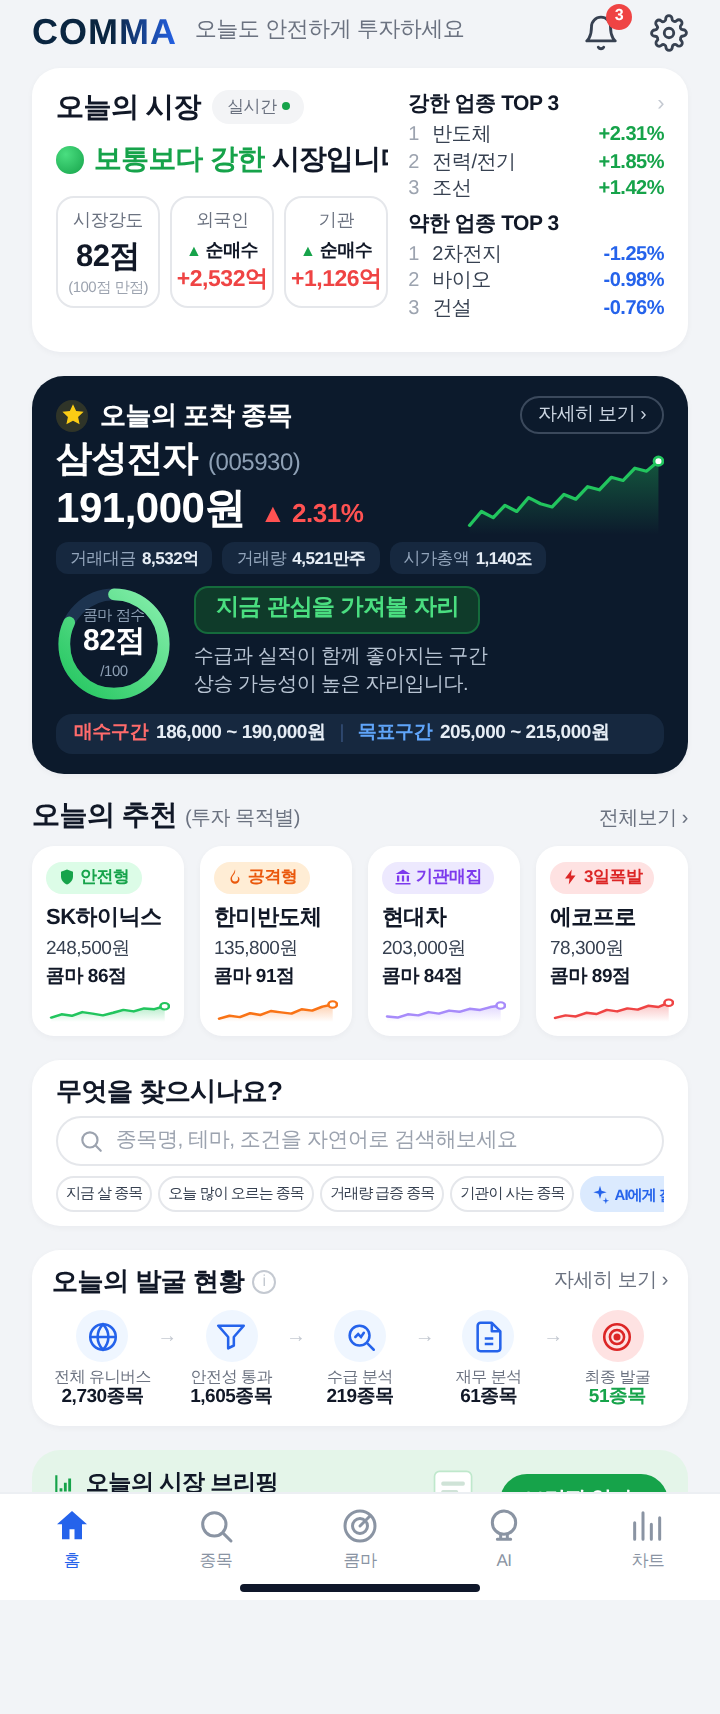
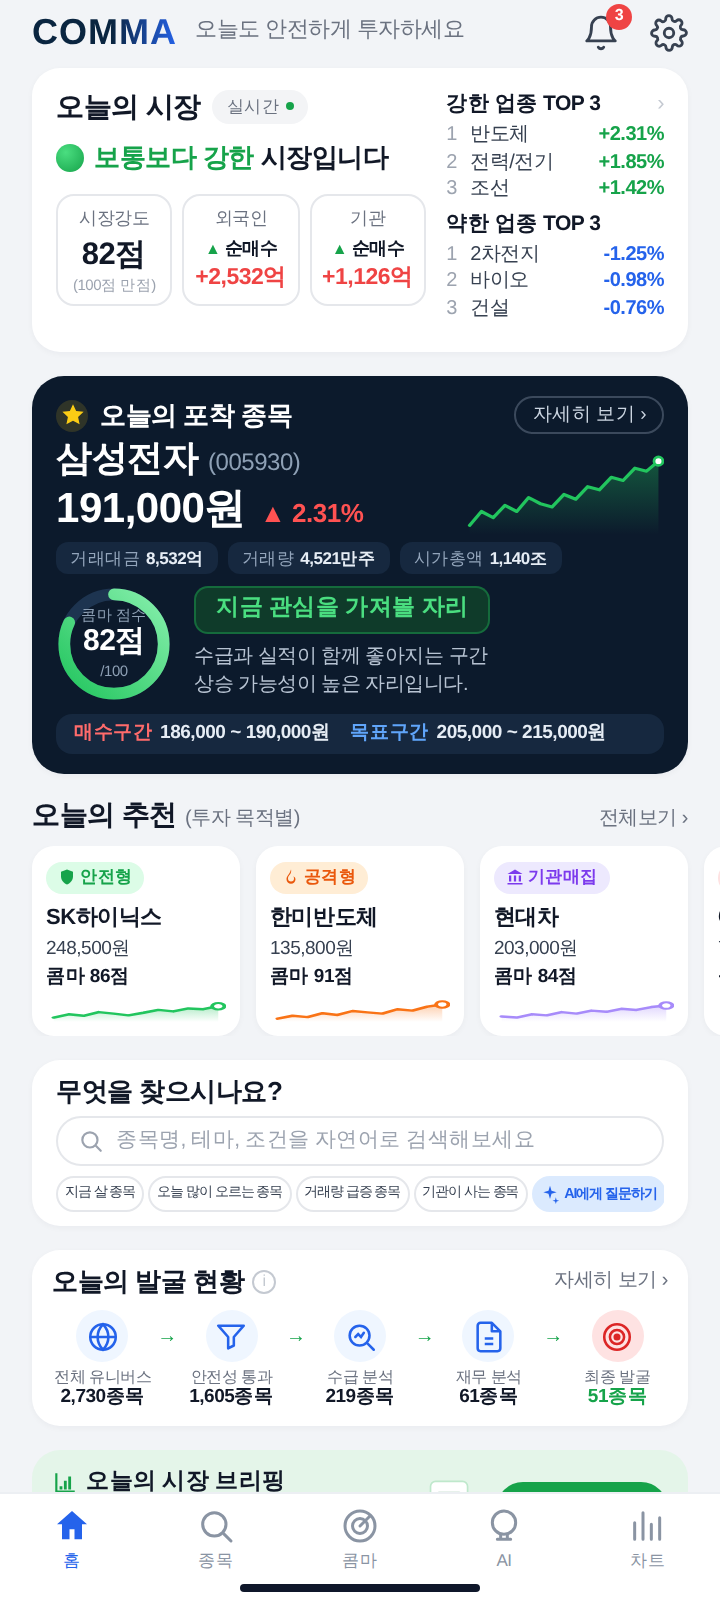
모바일 메인 화면 기준 이미지 정합 보강: 콤마형 포함 추천 5개, 초록 화살표, 소형 화면 보호
- 오늘의 추천을 5개 유형(안전형/공격형/기관매집/3일폭발 + 콤마형)으로 확장.
  기준 이미지대로 4개가 보이고 5번째 콤마형은 가로 스크롤로 이어짐.
- 콤마형 배지/차트는 기존 PC GUI와 동일한 COMMA 블루(#3182f6) 사용.
- 발굴 현황 단계 화살표를 명세대로 초록색으로 변경.
- '보통보다 강한 시장입니다' / 'AI에게 질문하기' 칩 잘림 수정.
- 360px 이하 소형 화면: 글자 삭제 없이 줄바꿈으로 대응(시장 상태, 매수/목표구간,
  브리핑 문구, 발굴 단계명), 추천 카드 3개/화면 스크롤.
- 320/360/375/390/414/430/480/768px 전 해상도에서 가로 overflow 없음 검증,
  스크린샷(360/390/414) 갱신.

Claude-Session: https://claude.ai/code/session_01STQdtvUvdCaqbkMQbvxGR4

Changed region(s): [[0.0306, 0.0, 0.9778, 1.0], [0.825, 0.0, 0.9472, 0.0312], [0.8861, 0.625, 0.9167, 0.6562]]

diff --git a/mobile/index.html b/mobile/index.html
@@ -72,7 +72,8 @@
 
   /* ---------- 1. 오늘의 시장 ---------- */
   .market-card { display: flex; gap: 10px; padding: 11px 12px; }
-  .market-left { flex: 1.3; min-width: 0; overflow: hidden; }
+  /* 기준 이미지 좌우 비율: 좌측(상태+지표) 약 63%, 우측(업종) 약 37% */
+  .market-left { flex: 1.7; min-width: 0; overflow: hidden; }
   .market-title-row { display: flex; align-items: center; gap: 6px; }
   .market-title { font-size: 14px; font-weight: 700; white-space: nowrap; }
   .live-pill {
@@ -164,8 +165,9 @@
   .zone-bar {
     display: flex; align-items: center; margin-top: 6px;
     background: #16283f; border-radius: 8px; padding: 4px 9px;
-    font-size: 9.5px; line-height: 1.25; white-space: nowrap;
+    font-size: 9.5px; line-height: 1.25;
   }
+  .zone-pair { display: inline-flex; align-items: baseline; white-space: nowrap; }
   .zone-label-buy { color: #ff6b6b; font-weight: 700; margin-right: 4px; }
   .zone-label-target { color: #60a5fa; font-weight: 700; margin-right: 4px; }
   .zone-value { color: #e6edf5; font-weight: 600; }
@@ -182,9 +184,15 @@
   .rec-row {
     display: flex; gap: 8px;
     padding: 0 var(--side-margin); margin-bottom: var(--card-gap);
+    /* 추천은 5개 유형(콤마형 포함) — 기준 이미지처럼 4개가 화면에 보이고
+       5번째 카드는 가로 스크롤로 이어진다. */
+    overflow-x: auto; scrollbar-width: none;
   }
+  .rec-row::-webkit-scrollbar { display: none; }
   .rec-card {
-    flex: 1; min-width: 0; background: #fff; border-radius: 11px;
+    /* 한 화면에 정확히 4개 (기준 이미지와 동일한 카드 폭 비율) */
+    flex: 0 0 calc((100% - 24px) / 4); min-width: 0;
+    background: #fff; border-radius: 11px;
     padding: 6px 7px 5px; box-shadow: 0 1px 3px rgba(15,23,42,0.04);
   }
   .rec-badge {
@@ -192,6 +200,7 @@
     font-size: 8.5px; font-weight: 700; border-radius: 999px; padding: 2.5px 6px;
     white-space: nowrap;
   }
+  .rec-badge.comma { background: #e8f0fe; color: #3182f6; }
   .rec-badge.safe { background: #dcfce7; color: #16a34a; }
   .rec-badge.aggressive { background: #ffedd5; color: #ea580c; }
   .rec-badge.inst { background: #ede9fe; color: #7c3aed; }
@@ -211,13 +220,13 @@
   }
   .search-input span { font-size: 10.5px; color: var(--text-light-gray); white-space: nowrap; }
   .search-chips {
-    display: flex; gap: 3px; margin-top: 5px; justify-content: space-between;
+    display: flex; gap: 2px; margin-top: 5px; justify-content: space-between;
     overflow-x: auto; scrollbar-width: none;
   }
   .search-chips::-webkit-scrollbar { display: none; }
   .s-chip {
-    flex: 0 0 auto; font-size: 7.5px; letter-spacing: -0.5px; color: #374151;
-    border: 1px solid var(--border); border-radius: 999px; padding: 3px 4px;
+    flex: 0 0 auto; font-size: 7.2px; letter-spacing: -0.55px; color: #374151;
+    border: 1px solid var(--border); border-radius: 999px; padding: 3px 3.5px;
     background: #fff; white-space: nowrap; line-height: 1.2;
   }
   .s-chip.ai {
@@ -245,7 +254,7 @@
   .step-label { font-size: 8px; line-height: 1.15; color: var(--text-gray); margin-top: 3px; white-space: nowrap; }
   .step-count { font-size: 9.5px; line-height: 1.15; font-weight: 800; margin-top: 1px; white-space: nowrap; }
   .step.final .step-count { color: var(--green); }
-  .step-arrow { color: #c4c9d1; font-size: 10px; padding-top: 8px; flex: none; }
+  .step-arrow { color: var(--green); font-size: 10px; padding-top: 8px; flex: none; }
 
   /* ---------- 6. 오늘의 시장 브리핑 ---------- */
   .briefing-card {
@@ -284,6 +293,18 @@
   .home-indicator {
     width: 120px; height: 4.5px; border-radius: 3px; background: #0f172a;
     margin: 6px auto 0;
+  }
+
+  /* ---------- 소형 기기 보호 (max-width 360px) ----------
+     글자를 삭제하지 않고 줄바꿈/스크롤로 대응한다. 기준 390px 화면에는 영향 없음.
+     주의: 기본 규칙을 덮어써야 하므로 반드시 스타일시트 마지막에 위치한다. */
+  @media (max-width: 360px) {
+    .market-status { white-space: normal; word-break: keep-all; }
+    .rec-card { flex-basis: calc((100% - 16px) / 3); }
+    .zone-bar { flex-wrap: wrap; row-gap: 2px; column-gap: 10px; }
+    .zone-sep { display: none; }
+    .briefing-msg { white-space: normal; overflow: visible; text-overflow: clip; }
+    .step-label { white-space: normal; word-break: keep-all; }
   }
 </style>
 </head>

diff --git a/mobile/render.js b/mobile/render.js
@@ -38,6 +38,7 @@
     bell: `<svg viewBox="0 0 24 24" fill="none" stroke="#374151" stroke-width="1.8" stroke-linecap="round" stroke-linejoin="round"><path d="M18 8a6 6 0 0 0-12 0c0 7-3 9-3 9h18s-3-2-3-9"/><path d="M13.7 21a2 2 0 0 1-3.4 0"/></svg>`,
     gear: `<svg viewBox="0 0 24 24" fill="none" stroke="#374151" stroke-width="1.8" stroke-linecap="round" stroke-linejoin="round"><circle cx="12" cy="12" r="3"/><path d="M19.4 15a1.65 1.65 0 0 0 .33 1.82l.06.06a2 2 0 1 1-2.83 2.83l-.06-.06a1.65 1.65 0 0 0-1.82-.33 1.65 1.65 0 0 0-1 1.51V21a2 2 0 1 1-4 0v-.09a1.65 1.65 0 0 0-1-1.51 1.65 1.65 0 0 0-1.82.33l-.06.06a2 2 0 1 1-2.83-2.83l.06-.06a1.65 1.65 0 0 0 .33-1.82 1.65 1.65 0 0 0-1.51-1H3a2 2 0 1 1 0-4h.09a1.65 1.65 0 0 0 1.51-1 1.65 1.65 0 0 0-.33-1.82l-.06-.06a2 2 0 1 1 2.83-2.83l.06.06a1.65 1.65 0 0 0 1.82.33h0a1.65 1.65 0 0 0 1-1.51V3a2 2 0 1 1 4 0v.09a1.65 1.65 0 0 0 1 1.51h0a1.65 1.65 0 0 0 1.82-.33l.06-.06a2 2 0 1 1 2.83 2.83l-.06.06a1.65 1.65 0 0 0-.33 1.82v0a1.65 1.65 0 0 0 1.51 1H21a2 2 0 1 1 0 4h-.09a1.65 1.65 0 0 0-1.51 1z"/></svg>`,
     star: `<svg viewBox="0 0 24 24" width="13" height="13" fill="#facc15"><path d="M12 2l2.9 6.3 6.9.8-5.1 4.7 1.4 6.8L12 17.2 5.9 20.6l1.4-6.8L2.2 9.1l6.9-.8z"/></svg>`,
+    diamond: `<svg viewBox="0 0 24 24" width="9" height="9" fill="#3182f6"><path d="M12 2l6 6-6 14L6 8z"/><path d="M2 8h20l-4-6H6z" opacity="0.55"/></svg>`,
     shield: `<svg viewBox="0 0 24 24" width="9" height="9" fill="#16a34a"><path d="M12 2l8 3v6c0 5-3.4 9.4-8 11-4.6-1.6-8-6-8-11V5z"/></svg>`,
     fire: `<svg viewBox="0 0 24 24" width="9" height="9" fill="#ea580c"><path d="M12 2s1 3-1 6 -3 3-3 6a4 4 0 0 0 8 0c0-2-1-3-1-3s3 1 3 4a6 6 0 0 1-12 0c0-5 4-6 6-13z"/></svg>`,
     bank: `<svg viewBox="0 0 24 24" width="9" height="9" fill="#7c3aed"><path d="M12 2l10 6H2zM4 10h3v8H4zm6.5 0h3v8h-3zM17 10h3v8h-3zM2 20h20v2H2z"/></svg>`,
@@ -149,15 +150,15 @@
         </div>
       </div>
       <div class="zone-bar">
-        <span class="zone-label-buy">${P.buyZone.label}</span><span class="zone-value">${P.buyZone.value}</span>
+        <span class="zone-pair"><span class="zone-label-buy">${P.buyZone.label}</span><span class="zone-value">${P.buyZone.value}</span></span>
         <span class="zone-sep">|</span>
-        <span class="zone-label-target">${P.targetZone.label}</span><span class="zone-value">${P.targetZone.value}</span>
+        <span class="zone-pair"><span class="zone-label-target">${P.targetZone.label}</span><span class="zone-value">${P.targetZone.value}</span></span>
       </div>
     </div>`;
 
   // ---------- 3. 오늘의 추천 ----------
-  const REC_COLORS = { safe: "#22c55e", aggressive: "#f97316", inst: "#a78bfa", burst: "#ef4444" };
-  const REC_ICONS = { safe: ICONS.shield, aggressive: ICONS.fire, inst: ICONS.bank, burst: ICONS.bolt };
+  const REC_COLORS = { comma: "#3182f6", safe: "#22c55e", aggressive: "#f97316", inst: "#a78bfa", burst: "#ef4444" };
+  const REC_ICONS = { comma: ICONS.diamond, safe: ICONS.shield, aggressive: ICONS.fire, inst: ICONS.bank, burst: ICONS.bolt };
   const recSection = `
     <div class="section-head">
       <span class="section-title">${D.recommend.title}</span>

diff --git a/mobile/data.js b/mobile/data.js
@@ -63,11 +63,15 @@ window.COMMA_DATA = {
     title: "오늘의 추천",
     subtitle: "(투자 목적별)",
     moreLabel: "전체보기",
+    // 오늘의 추천은 항상 5개 유형 전체를 유지한다 (콤마형 포함).
+    // 기준 이미지에는 4개가 보이므로 앞 4개가 기준 화면 그대로 노출되고
+    // 5번째(콤마형)는 가로 스크롤로 자연스럽게 이어진다.
     cards: [
       { type: "안전형", theme: "safe", icon: "shield", name: "SK하이닉스", price: "248,500원", score: "콤마 86점", chart: [20, 35, 28, 45, 38, 30, 42, 55, 48, 62, 58, 72] },
       { type: "공격형", theme: "aggressive", icon: "fire", name: "한미반도체", price: "135,800원", score: "콤마 91점", chart: [15, 28, 22, 40, 32, 50, 44, 38, 58, 52, 70, 80] },
       { type: "기관매집", theme: "inst", icon: "bank", name: "현대차", price: "203,000원", score: "콤마 84점", chart: [25, 20, 35, 30, 45, 38, 52, 46, 60, 55, 68, 75] },
       { type: "3일폭발", theme: "burst", icon: "bolt", name: "에코프로", price: "78,300원", score: "콤마 89점", chart: [18, 30, 25, 42, 36, 55, 48, 62, 56, 74, 68, 88] },
+      { type: "콤마형", theme: "comma", icon: "diamond", name: "삼성전자", price: "191,000원", score: "콤마 92점", chart: [14, 26, 22, 36, 30, 44, 40, 54, 50, 66, 62, 82] },
     ],
   },
 
